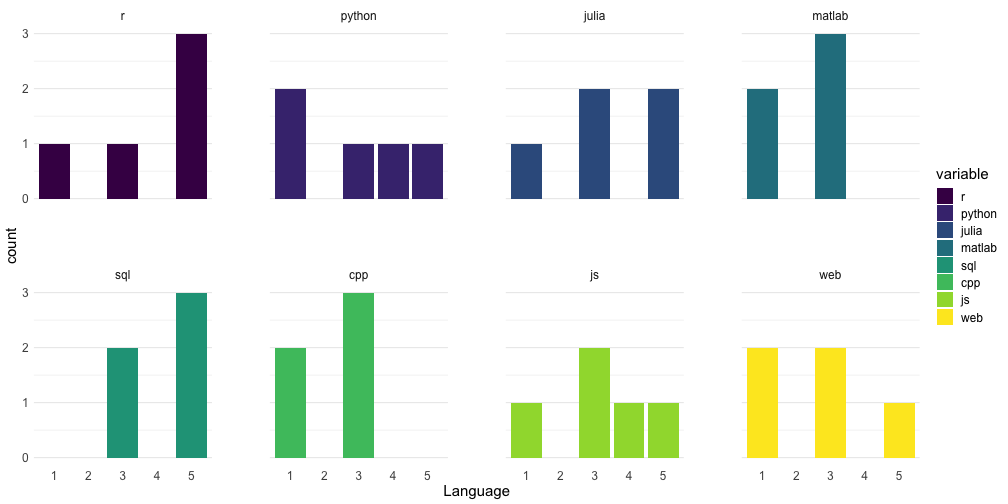
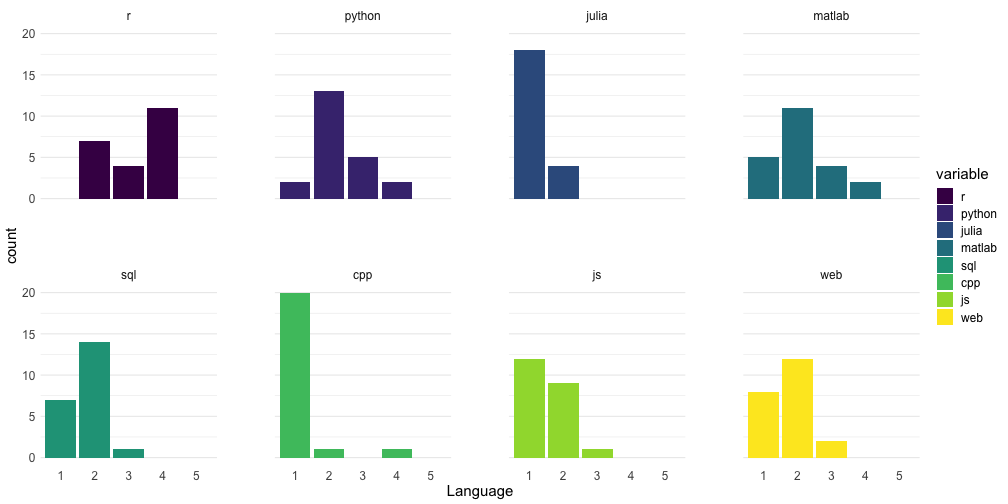
updated s for the git session

diff --git a/docs/block_1_session_4_git_101.html b/docs/block_1_session_4_git_101.html
@@ -132,6 +132,16 @@ If not, watch [Connect to Remote Repository Using an RSA Key Pair](https://www.y
 &lt;div class="my-footer"&gt;&lt;span&gt;&lt;div class="footer-text" align="right"&gt;"Hacking for Social Sciences" by Dr. Matthias Bannert is licensed under &lt;a href="https://creativecommons.org/licenses/by-nc-sa/4.0/?ref=chooser-v1"&gt;CC BY-NC-SA 4.0&lt;/a&gt;&lt;/div&gt;&lt;/span&gt;&lt;/div&gt; 
 
 ---
+
+class:center,middle
+
+## Feedback Results
+
+
+---
+
+
+![](block_1_session_4_git_101_files/figure-html/unnamed-chunk-1-1.png)&lt;!-- --&gt;
     </textarea>
 <style data-target="print-only">@media screen {.remark-slide-container{display:block;}.remark-slide-scaler{box-shadow:none;}}</style>
 <script src="https://remarkjs.com/downloads/remark-latest.min.js"></script>
